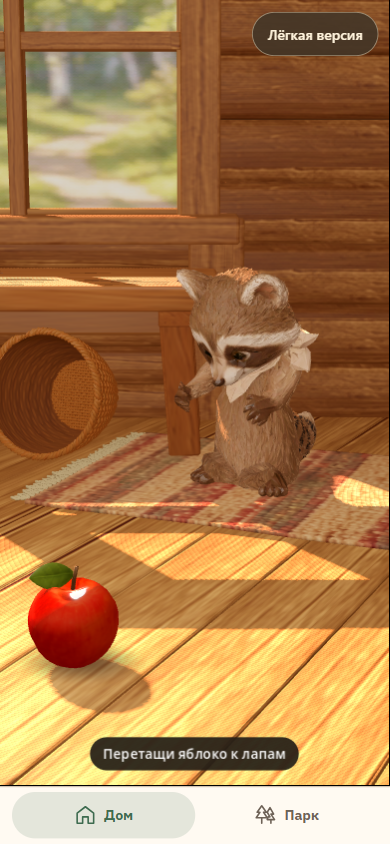
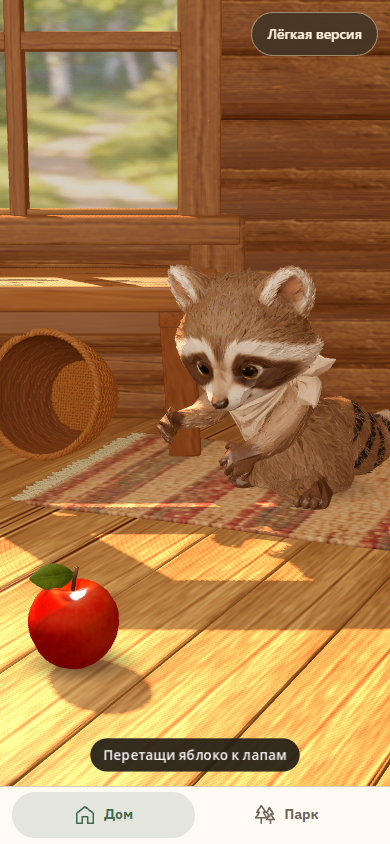
Record the revised acceptance criteria and actual mobile captures

diff --git a/docs/showcase/project-status.html b/docs/showcase/project-status.html
@@ -16,25 +16,25 @@
 <div><h1>Домик у тропы</h1><p>Локальную версию можно показывать. Дома игрок знакомится с енотом, ухаживает за ним и зарабатывает на лежанку. Посетитель может сразу перейти в парк и найти вольер.</p>
 <div class="links"><a class="primary" href="http://127.0.0.1:8168/demo/index.html?view=3d">Открыть игру</a><a href="http://127.0.0.1:8168/demo/index.html#park">Открыть парк</a></div></div>
 <div class="shots"><figure><a href="first-room/first-meeting-web.png"><img src="first-room/first-meeting-web.png" width="390" height="844" alt="Малыш на коврике и яблоко на полу перед ним"></a><figcaption>Первая встреча</figcaption></figure>
-<figure><a href="review/match.webp"><img src="review/match.webp" width="390" height="844" alt="Поле мини-игры Три в ряд"></a><figcaption>Мини-игры</figcaption></figure>
-<figure><a href="review/capybara.webp"><img src="review/capybara.webp" width="390" height="844" alt="Выбранный вольер капибары в первой зоне"></a><figcaption>Карта парка</figcaption></figure></div></section>
+<figure><a href="match-layout/godot-390.png"><img src="match-layout/godot-390.png" width="390" height="844" alt="Поле мини-игры Три в ряд"></a><figcaption>Мини-игры</figcaption></figure>
+<figure><a href="map-fullscreen/after-390-card.png"><img src="map-fullscreen/after-390-card.png" width="390" height="844" alt="Выбранное место на карте парка"></a><figcaption>Карта парка</figcaption></figure></div></section>
 <section class="section"><h2>Что можно проверить</h2><p>Нажмите на раздел, чтобы увидеть проверенный сценарий и открытые вопросы. Кадры ниже сняты из приложения.</p><div class="ledger">
-<details open><summary>Первая встреча и дом <span>Пройдено в браузере</span></summary><p>Яблоко нужно протянуть пальцем в лапы. После еды появляется выбор имени. В доме есть бесплатная купель. Первая игра в пары позволяет заработать 5 листиков на лежанку. Покупка, имя и сон сохраняются между запусками.</p><p>Ричи подходит к мебели, сворачивается клубком и после пробуждения возвращается на пол. Имитация касания и сон проверены в Godot и браузере. На стартовом кадре Ричи почти выпрямился, лапы согнуты у груди. В концепте он сидит ниже и тянется обеими лапами к яблоку. Остались поза ожидания, шерсть и проверка пальцем на телефоне. <a href="first-room/sleep-movement.mp4">Запись движения, 15 секунд</a> · <a href="richi-gaze.mp4">Запись взгляда</a></p></details>
+<details open><summary>Первая встреча и дом <span>Пройдено в браузере</span></summary><p>Яблоко нужно протянуть пальцем в лапы. После еды появляется выбор имени. В доме есть бесплатная купель. Первая игра в пары позволяет заработать 5 листиков на лежанку. Покупка, имя и сон сохраняются между запусками.</p><p>Ричи подходит к мебели, сворачивается клубком и после пробуждения возвращается на пол. Имитация касания и сон проверены в Godot и браузере. Малыш сидит боком на коврике и подаётся обеими лапами к плоду. Видны захват и первый укус. <a href="first-room/apple-reach.jpg">Последовательность кормления</a> · <a href="first-room/sleep-movement.mp4">Запись движения, 15 секунд</a> · <a href="richi-gaze.mp4">Запись взгляда</a></p></details>
 <details><summary>Уход, уровни и листья <span>Механика работает, анимация требует доработки</span></summary><p>После имени четыре шкалы начинаются с половины. Еда, мытьё, сон и игры восстанавливают соответствующую потребность. Награда за уход ограничена реально восстановленным значением. Уровни меняют пропорции енота и поведение с мячом.</p><p>Проверены состояния голода, грязи, сонливости и скуки. В кадре со взрослым енотом мяч в части движения перекрыт туловищем. Нужна более читаемая поза переноски. <a href="review/growth.webp">Этапы взросления</a></p></details>
-<details><summary>Три мини-игры <span>Правила и награды проверены</span></summary><p>«Найди пару» открывается с 12 закрытыми карточками. В «Три в ряд» есть цель, 12 ходов, бонусы за длинные ряды и каскады. В «Яблочном саду» нужно двигать корзинку, ловить яблоки и пропускать шишки. После трёх ошибок раунд заканчивается. Повторный просмотр результата сохраняет баланс.</p><p>В «Три в ряд» над полем остаётся много свободного места. На телефоне нужно проверить компоновку, размер клеток, темп падения яблок и читаемость комбо. <a href="review/pairs.webp">Пары</a> · <a href="review/match.webp">Три в ряд</a> · <a href="review/orchard.webp">Яблочный сад</a></p></details>
-<details><summary>Лавка, одежда и мебель <span>Покупка работает в веб-демо, посадка вещей открыта</span></summary><p>В доме можно примерить убор, отменить примерку и купить вещь за листья. Диван заменяет лежанку, улучшенная купель — обычную. Подготовлены 37 текстурированных предметов и четыре файла Blender.</p><p>У полевой шляпы виден край внутри уха, у короны во сне тоже есть пересечение. Нужна правка на трёх возрастах. В автономном запуске Godot лавка пока продаёт первую лежанку. Полный каталог доступен через веб-оболочку. Там редкость вещи видна после её выбора. <a href="richi-hats-godot.jpg">Уборы в Godot</a> · <a href="cabin-models/models-sheet.png">Рендер предметов</a></p></details>
-<details><summary>Карта и животные <span>Обе зоны работают, точность требует обхода парка</span></summary><p>У карты 109 карточек, 64 места нанесены на план. Семь вольеров в двух зонах доступны нажатием по площади. У остальных объектов с известным расположением выбирается точка. Когда известна только зона, карточка сообщает об этом. Один номер может встречаться в обеих зонах.</p><p>Карту, выбор объектов и возврат проверяли с отключёнными внешними тайлами. Для пешего маршрута в Яндексе нужны проверенные гостевые подходы. Им нужна сверка у оград, входов и мостов. <a href="review/capybara.webp">Капибара на карте</a> · <a href="review/yak.webp">Вторая зона</a></p></details>
-<details><summary>Кормления, билеты и экскурсии <span>Путеводитель работает, скидка демонстрационная</span></summary><p>Кормление связано с датой и местом. Из карточки можно перейти в вольер и вернуться. Есть каталог животных, контакты, правила, питание, ссылка на официальную кассу и форма парка для экскурсии.</p><p>Парк должен подтвердить актуальное расписание и правила акции. На уровне 10 демонстрируется расчёт скидки 10% на один детский билет. Приём живого заказа на экскурсию и применение скидки в настоящей кассе ещё не подтверждены. <a href="review/coupon.webp">Экран награды</a></p></details>
-<details><summary>Семейный профиль <span>Пройдено на локальном сервере</span></summary><p>Регистрация, вход, явное сохранение и восстановление проверены в двух раздельных браузерных сессиях. Проверены отмена замены, конфликт версий и возвращение после сбоя сети. Гость может играть без аккаунта.</p><p>Для использования на разных телефонах в реальном выпуске нужны сервер HTTPS, восстановление доступа, резервные копии и эксплуатационная проверка. <a href="review/profile.webp">Экран профиля</a></p></details>
+<details><summary>Три мини-игры <span>Правила и награды проверены</span></summary><p>«Найди пару» открывается с 12 закрытыми карточками. В «Три в ряд» есть цель, 12 ходов, бонусы за длинные ряды и каскады. В «Яблочном саду» нужно двигать корзинку, ловить яблоки и пропускать шишки. После трёх ошибок раунд заканчивается. Повторный просмотр результата сохраняет баланс.</p><p>На ширинах 320, 390 и 430 px игровое поле помещается сразу под счётчиками. Проверены успешный свайп и обмен, который возвращает фишки без расхода хода. <a href="review/pairs.webp">Пары</a> · <a href="match-layout/godot-390.png">Три в ряд</a> · <a href="review/orchard.webp">Яблочный сад</a></p></details>
+<details><summary>Лавка, одежда и мебель <span>Девять товаров и примерка в Godot</span></summary><p>Можно примерить предмет, отменить выбор, купить вещь и установить её в домике. Диван занимает место лежанки, улучшенная купель заменяет базовую. Одежда привязана к кости головы. В редакторе видны защищённые объёмы ушей и головы и область контакта с макушкой.</p><p><a href="growth-fit/fit-clearance.jpg">Как выглядит посадка</a> · <a href="growth-fit/README.md">Посадка трёх уборов</a> · <a href="cabin-models/models-sheet.png">Предметы интерьера</a></p></details>
+<details><summary>Карта и животные <span>Обе зоны работают, точность требует обхода парка</span></summary><p>Карта заполняет экран над нижними вкладками. Сверху доступны возврат, зоны и поиск. Слои и карточка места раскрываются поверх карты. У карты 109 карточек, 64 места нанесены на план. Семь вольеров в двух зонах доступны нажатием по площади. У остальных объектов с известным расположением выбирается точка. Когда известна только зона, карточка сообщает об этом. Один номер может встречаться в обеих зонах.</p><p>Карту, выбор объектов и возврат проверяли с отключёнными внешними тайлами. Для пешего маршрута в Яндексе нужны проверенные гостевые подходы. Им нужна сверка у оград, входов и мостов. <a href="map-fullscreen/after-390-card.png">Карточка места</a> · <a href="review/yak.webp">Вторая зона</a></p></details>
+<details><summary>Кормления, билеты и экскурсии <span>Путеводитель работает, скидка демонстрационная</span></summary><p>Кормление связано с датой и местом. Из карточки можно перейти в вольер и вернуться. В каталоге 81 вид млекопитающих, 27 видов птиц и 8 видов рыб. Поисковый запрос и класс сохраняются при возврате из карточки. Есть контакты, правила, питание, ссылка на официальную кассу и форма парка для экскурсии.</p><p>Парк должен подтвердить актуальное расписание и правила акции. На уровне 10 демонстрируется расчёт скидки 10% на один детский билет. Приём живого заказа на экскурсию и применение скидки в настоящей кассе ещё не подтверждены. <a href="park-reward.jpg">Плашка награды в обеих темах</a> · <a href="review/coupon.webp">Условия награды</a></p></details>
+<details><summary>Семейный профиль <span>Пройдено на локальном сервере</span></summary><p>Регистрация, вход, явное сохранение и восстановление проверены в двух раздельных браузерных сессиях. Проверены отмена замены, конфликт версий и возвращение после сбоя сети. Гость может играть без аккаунта. Для Google и Apple предусмотрен вход через существующую семейную сессию. Подключение, отмена и возврат проверены с локальным тестовым провайдером. Для входа с настоящим аккаунтом оператору нужно зарегистрировать клиентов. <a href="../family-sign-in.md">Настройка входа</a>.</p><p>Для использования на разных телефонах в реальном выпуске нужны сервер HTTPS, восстановление доступа, резервные копии и эксплуатационная проверка. <a href="review/profile.webp">Экран профиля</a></p></details>
 </div></section>
 <section class="section"><h2>Что видно при проверке</h2><p>Откройте изображения в полном размере. На кадрах из Godot можно сравнить три возраста и увидеть край шляпы у уха. На техническом плане показаны семь обведённых вольеров.</p>
 <div class="shots evidence"><figure><a href="growth-fit/growth.jpg"><img loading="lazy" src="growth-fit/growth.jpg" alt="Три возраста Ричи в комнате Godot"></a><figcaption>Уровни 1, 4 и 10</figcaption></figure>
-<figure><a href="growth-fit/fit-ranger.jpg"><img loading="lazy" src="growth-fit/fit-ranger.jpg" alt="Посадка шляпы на еноте в трёх возрастах и позах"></a><figcaption>Шляпа задевает ухо</figcaption></figure>
+<figure><a href="growth-fit/fit-ranger.jpg"><img loading="lazy" src="growth-fit/fit-ranger.jpg" alt="Посадка шляпы на еноте в трёх возрастах и позах"></a><figcaption>Шляпа лесника в трёх позах</figcaption></figure>
 <figure><a href="park-boundary-check.png"><img loading="lazy" src="park-boundary-check.png" alt="Семь оград, сверенных с техническим планом парка"></a><figcaption>Границы на плане</figcaption></figure></div></section>
 <section class="section"><h2>До выпуска</h2><div class="next">
-<div><h3>Ричи в движении</h3><p>Приблизить позу ожидания яблока к концепту, исправить посадку шляпы и короны, показать мяч в лапах взрослого енота на протяжении переноски. Принять внешний вид в игровом масштабе.</p></div>
+<div><h3>Ричи в движении</h3><p>Проверить шерсть, мимику и посадку вещей в движении на физическом телефоне. Показать мяч в лапах взрослого енота на протяжении переноски. Принять внешний вид в игровом масштабе.</p></div>
 <div><h3>Прогулка на месте</h3><p>Сверить минимум пять ориентиров в каждой зоне, гостевые подходы и текущих животных. Подтвердить расписание, запись на экскурсию и условия скидки с парком.</p></div>
 <div><h3>iPhone и Android</h3><p>Проверить установку, холодный старт, фактическое касание, частоту кадров, десять переходов между домом и парком и восстановление сохранения.</p></div>
 </div><div class="later"><h3>Следующие этапы</h3><p>Аудиогид, отдельные QR-коды гида и 4–5 игровых точек в парке, напоминания за 30 минут, голосовой ответ енота и награда за реальную покупку билета.</p></div></section>
-<footer class="links"><a href="review/index.html">Галерея экранов</a><a href="../../specs/animal-park/TZ.md">Критерии ТЗ</a><a href="https://github.com/ak1mbekk/mobile_app_park/tree/2.0">Ветка разработки 2.0</a></footer>
+<footer class="links"><a href="visitor-refresh.jpg">Парк на телефоне</a><a href="review/index.html">Галерея экранов</a><a href="../../specs/animal-park/TZ.md">Критерии ТЗ</a><a href="https://github.com/ak1mbekk/mobile_app_park/tree/2.0">Ветка разработки 2.0</a></footer>
 </main></html>

diff --git a/specs/animal-park/TZ.md b/specs/animal-park/TZ.md
@@ -46,6 +46,11 @@ Outfit7 описывает уход за взрослеющим питомцем
 | GAME-02/04 | «Три в ряд» — поле 6×6, 5 различимых плодов, 9 ягод малины за 12 допустимых обменов. Видны цель, оставшиеся ходы, обмен, исчезновение и падение. | Собрать 3, 4, 5, пересечение и каскад. Ошибочный обмен возвращается без расхода. На последнем ходу сначала завершаются каскады. На тупике перемешать. На 320 px все клетки и изображения выровнены относительно поля. |
 | GAME-03 | «Яблочный сад» — корзинка следует за пальцем. Яблоки падают с ускорением сложности, появляются шишки. Видны три жизни, потеря и причина ошибки. По завершении доступен повтор. | Поймать яблоко, пропустить яблоко, поймать шишку, пропустить шишку. Ошибки — два средних действия. Сравнить скорость в начале и после десяти предметов. Третья ошибка завершает раунд. В парке предметы не продолжают падать. |
 | SHOP-01/02, FIT-01 | В лавке раздельно вещи для питомца и для дома. Цена, редкость и владение видны до выбора. Бесплатная примерка в сцене. Диван заменяет лежанку, купель заменяет обычную ванну. Отмена не списывает листья. | На балансах меньше, равном и больше цены проверить примерку, покупку, снятие, перезапуск и повторное применение. Исходный и улучшенный предмет не пересекаются. Осмотреть три убора анфас и в три четверти при еде, сне и повороте головы. |
+| FIT-02 | Посадка трёх уборов привязана к анимированной голове. Для каждого возраста автор видит границы ушей, защищённый объём головы и область допустимого контакта с макушкой. | Открыть персонажа в Godot, включить диагностические объёмы. Осмотреть спереди и с обеих сторон в покое с поворотом, при еде и во сне. Проверка должна обнаружить четыре преднамеренные ошибки посадки: влево, вправо, слишком глубоко, слишком высоко. |
+| PARK-UI-03 | Главная парка использует официальный логотип и фактуру льна. Мотив вышивки вплетён в плашку награды. Из-за её края выглядывает Ричи, лапы видны поверх ткани. | При ширине 320, 390 и 554 px в обеих темах название и доступность награды читаются, весь билет открывается нажатием. Переключатель режима и последняя ссылка меню остаются доступными. |
+| TOUR-02, CAT-02 | Экскурсия имеет единый шрифт, один основной способ записи и читаемые условия. Животных можно выбрать по классу, затем искать внутри класса. | После открытия вида и возврата сохраняются запрос и класс. При нулевой выдаче сброс восстанавливает каталог. Для экскурсии проверить кнопку заявки и вторичные ссылки при ширине 320 px. |
+| MAP-UI-02 | Карта занимает доступную область до двух нижних вкладок. Параметры слоя, поиск места и сохранение для прогулки раскрываются по запросу. | На 320, 390 и 554 px высота полотна сохраняется при переключении зоны и открытии карточки. Проверить возврат к исходному экрану и отображение источника картографии. |
+| AUTH-03 | Взрослый может связать игровое сохранение со входом через Google или Apple после настройки провайдера. | Проверить отмену, ошибочный ответ, повтор callback, конфликт привязки, сохранение и выход. Отключённый провайдер не создаёт сессии. Настоящие учётные записи проверяются на зарегистрированных адресах возврата. |
 | ACCOUNT-01 | Взрослый находит профиль в правом верхнем углу. На локальном сервере — создать аккаунт, войти, сохранить питомца и восстановить на другом клиенте. Гость играет без регистрации. | Два независимых браузерных профиля. Неверный пароль, недоступный сервер, пустой аккаунт, отмена замены и конфликт двух сохранений. После выхода серверная сессия прекращается. Облачная и локальная копии должны однозначно различаться. |
 | BONUS-01 | Достижение порога открывает купон на один детский билет; до порога виден прогресс. Действующая демонстрация явно маркирует расчёт и ничего не списывает с карты. | До/после порога, смешанная корзина с двумя детьми, покупка без детей, повтор подтверждения. Боевая скидка допускается только после согласования парком и подтверждения кассой. |
 | PARK-01/02 | Касса официальная, экскурсию можно заказать через действующую форму. Видны правила, контакты, питание, корм, отдых и помощь. Событие имеет дату, время и объект. | Посетитель с первого экрана открывает кормление → место → вид → назад к исходной дате. Проверить пустое расписание, недоступную сеть, отменённое событие. Реальной записью на экскурсию считается ответ принимающей стороны. |
@@ -93,13 +98,13 @@ Outfit7 описывает уход за взрослеющим питомцем
 
 | Часть | Что зафиксировано при локальной проверке | Открытый критерий |
 |---|---|---|
-| Первая встреча, дом, переходы | Godot в браузере, касание и промах, кормление, имя, повторный вход, ванна, сон/пробуждение, переход в парк и назад. Действия привязаны к предметам. [Сквозной тест](../../scripts/check-godot-feeding.cjs) | На стартовом кадре корпус почти вертикален: уточнить сидячую позу и направить обе лапы к яблоку. Проверить контакт, шерсть, мимику и физическое касание на iPhone и Android. |
+| Первая встреча, дом, переходы | Godot в браузере, касание и промах, кормление, имя, повторный вход, ванна, сон/пробуждение, переход в парк и назад. Действия привязаны к предметам. [Сквозной тест](../../scripts/check-godot-feeding.cjs) | Стартовая сидячая поза и движение обеих лап обновлены. [Кадры захвата](../../docs/showcase/first-room/apple-reach.jpg). Проверить контакт, шерсть, мимику и физическое касание на iPhone и Android. |
 | Взгляд | [Ролик](../../docs/showcase/richi-gaze.mp4), [кропы](../../docs/showcase/richi-gaze-eyes.jpg), [проверка в Godot](../../scripts/check-gaze.gd). | Плавность на реальном устройстве, положение под веками во всех позах. |
 | Уход, взросление и экономика | Проверены пороги потребностей и запреты игры, сон и восстановление прогресса. Сняты уровни 1, 4 и 10 и четыре настроения. [Кадры Godot](../../docs/showcase/growth-fit/README.md) · [Тест ухода](../../scripts/check-care.cjs) · [Пограничные раунды](../../scripts/check-rounds.cjs). | Исправить позу взрослого при переноске мяча: часть движения скрывает его за корпусом. Принять мимику и читаемость отказа на телефоне. |
 | Настольные игры и сад | [Тест нативных сцен](../../scripts/check-godot-games.gd), касания в мобильном браузерном режиме, три жизни, восстановление раунда, однократный выигрыш. | Заказчик оценивает читаемость, темп сада, удовольствие от каскадов и ощущения на телефоне. |
-| Лавка | В веб-демо проверены примерка, отмена, покупка кепки, дивана и ванны, сохранение баланса и бесплатное снятие. Посадка снята на трёх возрастах. [Сравнение уборов](../../docs/showcase/growth-fit/README.md). | Поля шляпы пересекают ухо, корона задевает его во сне. Перепроверить кромку взрослой кепки после правок. В автономном Godot каталог пока ограничен лежанкой. |
+| Лавка | В Godot и веб-оболочке доступны девять товаров, примерка, отмена, покупка и установка. Проверены старые сохранения, три возраста модели и три состояния. [Сравнение уборов](../../docs/showcase/growth-fit/README.md) · [Тест посадки](../../scripts/check-godot-headwear.gd). | Проверить реальные ткани, кромки и непрерывные переходы на экранах физических телефонов. |
 | Карта | Проверены две зоны, карточка отдыха, выбор при перекрытии, ошибочные тайлы, стрелка возврата и ручная калибровка. [Посетительский тест](../../scripts/check-visitor.cjs) и [привязка](../../scripts/check-alignment.cjs). | Часть территорий доступна точками. Границы и пешие подходы принимать пообъектно. Приведённые в демобазе 14 прямоугольников совпали с тестовыми фигурами, рабочий картографический слой на них не основан. |
-| Аккаунт | Регистрация, вход, отказ при неверном пароле, две независимые сессии, перенос сохранения, отмена, выход, конфликт версий и повтор после отключения сети. | Публичный сервер, перенос между физическими устройствами и эксплуатационная приёмка. |
+| Аккаунт | Регистрация, вход, отказ при неверном пароле, две независимые сессии, перенос сохранения, отмена, выход, конфликт версий и повтор после отключения сети. | Маршруты Google и Apple проверены локальным тестовым провайдером. Для приёмки настоящего входа требуются регистрация клиентов и проверка с реальными аккаунтами. [Настройка](../../docs/family-sign-in.md). |
 | Парк и скидка | Реальная ссылка кассы и форма экскурсий, пустое расписание, демозаказ, однократность купона. | Согласование живого расписания, акции и точек гостевого подхода. |
 
 Протокол изменения: воспроизвести жалобу в обычной точке входа → привязать к ID → исправить → проверить руками и тестом → сохранить кадр → передать независимому ревьюеру. Ошибка, видимая на кадре, возвращает пункт в доработку даже при зелёном тесте. Общее состояние показа и измеренные ограничения приведены в [точке продолжения](RESUME.md).

diff --git a/specs/animal-park/RESUME.md b/specs/animal-park/RESUME.md
@@ -4,6 +4,10 @@
 
 Для показа открыть `/demo/index.html#park`. Кормления, каталог и меню открывают один экран карты. Вольер определяется зоной и номером. [Контуры](../../public/demo/map-boundaries.json) хранят вершины в координатах технического плана. Ручная подгонка владельца хранится локально в `public/demo/map-alignment.json`. В чистой копии ветки используется исходная привязка.
 
-В [первой комнате](../../docs/showcase/first-room/README.md) проверены перенос яблока, имя, покупка лежанки за пять листиков, подход ко сну и купели, сохранение и пробуждение. Там же доступны запись движения и кадр работающего браузера с аппаратным WebGL.
+В [первой комнате](../../docs/showcase/first-room/README.md) проверены перенос яблока, имя, покупка лежанки за пять листиков, подход ко сну и купели, сохранение и пробуждение. Там же доступны запись движения и кадр работающего браузера с WebGL2.
 
-Для следующей приёмки нужны замеры физического телефона, подтверждённые посетительские подходы к вольерам и визуальная проверка возрастных состояний и посадки вещей. Снимки, кадры Godot и тесты перечислены в ТЗ.
+В [главном меню](../../docs/showcase/park-reward.jpg) Ричи держится лапами за тканую плашку. Плашка открывает награду и показывает доступность купона из сохранения. В каталоге работают поиск и выбор класса. Карта занимает всю область над вкладками. [Четыре экрана путеводителя](../../docs/showcase/visitor-refresh.jpg).
+
+В сцене Ричи редактор показывает защищённые объёмы головы и ушей. Проверены 81 вариант посадки и 36 намеренных ошибок. В облегчённой версии используются кадры надетых вещей для разных возрастов и сна. Сравнения и порядок работы в редакторе приведены в [листе посадки](../../docs/showcase/growth-fit/README.md).
+
+Для следующей приёмки нужны физические iPhone и Android, подтверждённые посетительские подходы к вольерам и зарегистрированные клиенты Google и Apple. Актуальные ограничения и локальные проверки перечислены в ТЗ.

diff --git a/docs/showcase/first-room/README.md b/docs/showcase/first-room/README.md
@@ -5,7 +5,8 @@
 | Кадр из Godot | Что проверить в игре |
 | --- | --- |
 | [Первая встреча](first-meeting.png) | Протяните яблоко с пола к лапам. При промахе оно возвращается на место. После еды появляется поле имени. |
-| [Игра после загрузки в браузере](first-meeting-web.png) | Кадр снят в Яндекс Браузере с аппаратным WebGL2 на Intel UHD 630. Внизу можно перейти в парк прямо во время знакомства. |
+| [Лапы тянутся к яблоку](apple-reach.jpg) | Пять последовательных кадров из сцены. Слева для сравнения показана прежняя поза, далее видны новая посадка на коврике, захват яблока и первый укус. |
+| [Игра после загрузки в браузере](first-meeting-web.png) | Портретное окно 390 × 844, WebGL2 в Яндекс Браузере. Этот кадр снят в автоматизированном проходе с программным рендерером. Внизу можно перейти в парк прямо во время знакомства. |
 | [После имени](bed-invitation.png) | Лежанка ещё в лавке, купелью уже можно пользоваться. Кнопка «Сыграть» открывает «Найди пару». |
 | [После покупки](bed-placed.png) | Первая завершённая игра в пары даёт 5 листиков. Кнопка «Купить лежанку за 5 листиков» размещает лежанку в доме. Купленная лежанка сохраняется при следующем запуске. |
 | [Движение к мебели и пробуждение](sleep-movement.mp4) | Первый эпизод показывает подход к лежанке, сон и возвращение на коврик. Второй показывает прыжок на диван. Это запись движка с портретной камерой, 30 кадров/с. |
